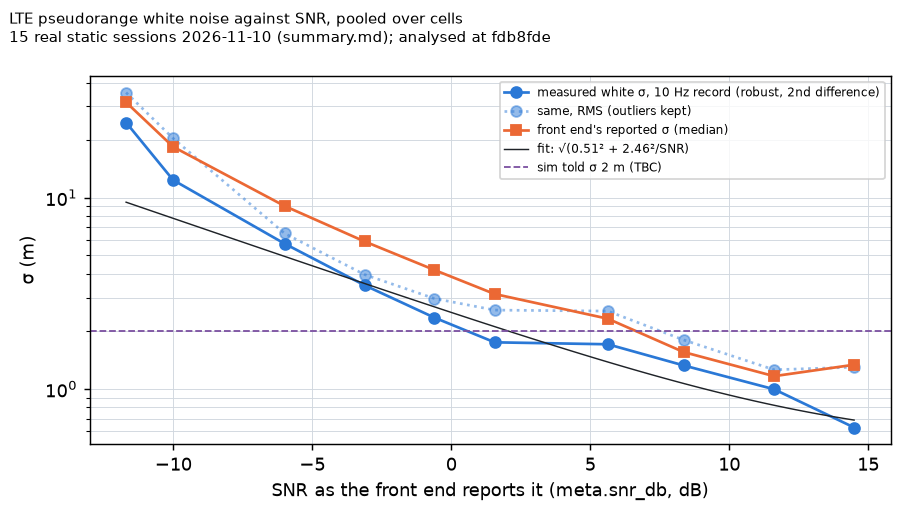
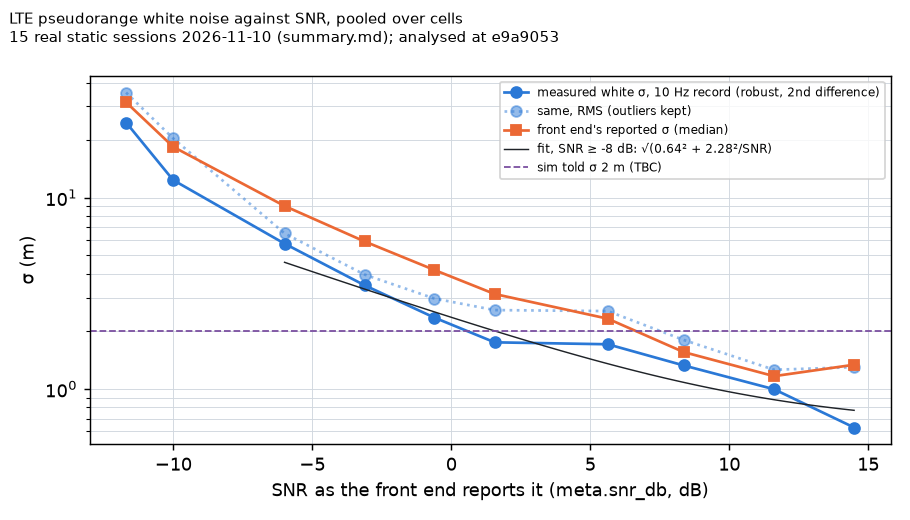
docs(analysis): regenerate LTE measured noise on all 15 sessions
Front end and analysis/lte_measured_noise.py at e9a9053 (main) on all
15 sessions of 2026-11-10, now on the laptop. The recording commit is
cited as its twin on main, ee20817 (analysis/recite.py's mapping).

summary.md, summary.json and the five figures now carry the fit over
SNR >= -8 dB only, and cite commits on main:

- fit: 0.51^2 + 2.46^2/SNR_lin -> 0.64^2 + 2.28^2/SNR_lin (m, 10 Hz)
- analysis 2408c19 -> e9a9053; front end 3e97678/060445f -> e9a9053

Every SNR bin, cell, pair, track-break and Allan value is unchanged
except three in the fourth significant figure (in NOTES.md). NOTES.md
says the results are regenerated and gives the commands as run.

diff --git a/analysis/results/lte-measured-noise/summary.md b/analysis/results/lte-measured-noise/summary.md
@@ -1,24 +1,24 @@
 # LTE pseudorange error measured on real static captures (#173)
 
-`analysis/lte_measured_noise.py` at `2408c19`. Evidence: **real sessions**, static, one RTL-SDR, no GPS fix (no position truth; NTP, not PPS, time). Precision only.
+`analysis/lte_measured_noise.py` at `e9a9053`. Evidence: **real sessions**, static, one RTL-SDR, no GPS fix (no position truth; NTP, not PPS, time). Precision only.
 
 | Session | Recorded at | Front end at | IQ length (s) | LTE record span (s) | Cells |
 |---|---|---|---|---|---|
-| 20261110-1305-lte-outside-lte | `ee20817` | `3e97678` | 59.53 | 49.4 | 1 |
-| 20261110-1610-static-site1-e2460-lte | `ee20817` | `3e97678` | 59.53 | 59.4 | 3 |
-| 20261110-1610-static-site1-e5060-lte | `ee20817` | `3e97678` | 59.53 | 59.4 | 4 |
-| 20261110-1610-static-site1-e5145-lte | `ee20817` | `3e97678` | 59.53 | 59.4 | 2 |
-| 20261110-1610-static-site1-e5205-lte | `ee20817` | `3e97678` | 59.12 | 59.0 | 3 |
-| 20261110-1610-static-site1-e5255-lte | `ee20817` | `3e97678` | 59.53 | 49.3 | 2 |
-| 20261110-1623-static-out-e2460-lte | `ee20817` | `3e97678` | 59.53 | 52.3 | 2 |
-| 20261110-1623-static-out-e2560-lte | `ee20817` | `3e97678` | 59.46 | 59.3 | 2 |
-| 20261110-1623-static-out-e5060-lte | `ee20817` | `3e97678` | 59.53 | 59.4 | 3 |
-| 20261110-1623-static-out-e5145-lte | `ee20817` | `3e97678` | 59.53 | 59.3 | 4 |
-| 20261110-1623-static-out-e5205-lte | `ee20817` | `3e97678` | 59.53 | 59.4 | 3 |
-| 20261110-1623-static-out-e5255-lte | `ee20817` | `3e97678` | 59.53 | 59.4 | 2 |
-| 20261110-1759-static-out-long-e5060-lte | `ee20817` | `060445f` | 1799.65 | 1799.5 | 3 |
-| 20261110-lte-outside-5145-lte | `ee20817` | `3e97678` | 29.49 | 29.4 | 3 |
-| 20261110-lte-outside-5255-lte | `ee20817` | `3e97678` | 29.49 | 29.3 | 2 |
+| 20261110-1305-lte-outside-lte | `ee20817` | `e9a9053` | 59.53 | 49.4 | 1 |
+| 20261110-1610-static-site1-e2460-lte | `ee20817` | `e9a9053` | 59.53 | 59.4 | 3 |
+| 20261110-1610-static-site1-e5060-lte | `ee20817` | `e9a9053` | 59.53 | 59.4 | 4 |
+| 20261110-1610-static-site1-e5145-lte | `ee20817` | `e9a9053` | 59.53 | 59.4 | 2 |
+| 20261110-1610-static-site1-e5205-lte | `ee20817` | `e9a9053` | 59.12 | 59.0 | 3 |
+| 20261110-1610-static-site1-e5255-lte | `ee20817` | `e9a9053` | 59.53 | 49.3 | 2 |
+| 20261110-1623-static-out-e2460-lte | `ee20817` | `e9a9053` | 59.53 | 52.3 | 2 |
+| 20261110-1623-static-out-e2560-lte | `ee20817` | `e9a9053` | 59.46 | 59.3 | 2 |
+| 20261110-1623-static-out-e5060-lte | `ee20817` | `e9a9053` | 59.53 | 59.4 | 3 |
+| 20261110-1623-static-out-e5145-lte | `ee20817` | `e9a9053` | 59.53 | 59.3 | 4 |
+| 20261110-1623-static-out-e5205-lte | `ee20817` | `e9a9053` | 59.53 | 59.4 | 3 |
+| 20261110-1623-static-out-e5255-lte | `ee20817` | `e9a9053` | 59.53 | 59.4 | 2 |
+| 20261110-1759-static-out-long-e5060-lte | `ee20817` | `e9a9053` | 1799.65 | 1799.5 | 3 |
+| 20261110-lte-outside-5145-lte | `ee20817` | `e9a9053` | 29.49 | 29.4 | 3 |
+| 20261110-lte-outside-5255-lte | `ee20817` | `e9a9053` | 29.49 | 29.3 | 2 |
 
 Sim placeholders from `src/pnt/sim/scenarios/sets/challenge-drone.yaml` and `sim/lte_front_end.py` `Dongle`.
 
@@ -37,7 +37,9 @@ Sim placeholders from `src/pnt/sim/scenarios/sets/challenge-drone.yaml` and `sim
 | 10 to 13 | 760 | 1.00 | 1.26 | 1.17 | 0.85 |
 | 13 to 16 | 1002 | 0.63 | 1.30 | 1.34 | 0.47 |
 
-Fit: σ² = 0.51² + 2.46² / SNR_lin (m, 10 Hz).
+Fit on the bins at SNR ≥ -8 dB only (`TBC`): σ² = 0.64² + 2.28² / SNR_lin (m, 10 Hz).
+
+Below it the fit is not used; each bin's measured robust σ stands: -14 to -11 dB: 24.74 m; -11 to -8 dB: 12.38 m.
 
 ## Per cell
 
@@ -57,7 +59,7 @@ Fit: σ² = 0.51² + 2.46² / SNR_lin (m, 10 Hz).
 | 20261110-1610-static-site1-e5205-lte | lte:5205:309 | 202790 | 97% | 8 | 8 | 8.8 | 1.45 | 1.31 | 5.05 | — | — | 145.97 | 119.6 | — | — | 7.1 | 1.1 |
 | 20261110-1610-static-site1-e5205-lte | lte:5205:325 | 202790 | 80% | 38 | 47 | 4.9 | 2.99 | 2.83 | 10.64 | — | — | 146.57 | -137.8 | -195 | -0.98 | 46.7 | 0.2 |
 | 20261110-1610-static-site1-e5255-lte | lte:5255:85 | 219129 | 52% | 14 | 15 | 12.0 | 1.03 | 0.70 | 3.32 | — | — | 143.41 | -2.7 | — | — | 14.1 | 1.4 |
-| 20261110-1610-static-site1-e5255-lte | lte:5255:175 | 219076 | 12% | 13 | 20 | -11.1 | 24.45 | 10.08 | — | — | — | — | — | 52 | 0.26 | 19.1 | 0.1 |
+| 20261110-1610-static-site1-e5255-lte | lte:5255:175 | 219076 | 12% | 13 | 20 | -11.1 | 24.45 | 10.09 | — | — | — | — | — | 52 | 0.26 | 19.1 | 0.1 |
 | 20261110-1623-static-out-e2460-lte | lte:2460:220 | 36122 | 63% | 19 | 36 | 5.5 | 10.21 | 1.95 | 6.06 | — | — | 85.70 | 52.0 | — | — | 35.3 | 0.2 |
 | 20261110-1623-static-out-e2460-lte | lte:2460:244 | 30066 | 19% | 9 | 24 | -11.9 | 30.55 | 11.35 | — | — | — | — | — | -416 | -2.08 | 23.2 | 0.1 |
 | 20261110-1623-static-out-e2560-lte | lte:2560:175 | TBD | 79% | 20 | 42 | -11.0 | 20.84 | 12.40 | 22.77 | — | — | 109.14 | -19.5 | 1 | 0.00 | 41.4 | 0.2 |

diff --git a/analysis/results/lte-measured-noise/NOTES.md b/analysis/results/lte-measured-noise/NOTES.md
@@ -4,7 +4,7 @@ Evidence: **real sessions**, static, payload Pi, one NESDR SMArt v5, recorded on
 
 ## Commands
 
-Analysis at `2408c19`. Front end at `3e97678` for the 60 s and 30 s sessions and at `060445f` for the 1,800 s one; no file under `src/` differs between the three. These are the commits on `main`. The runs were made on the branch before it was rebased twice and rebase-merged; each commit named here has the same change as the branch commit it ran at (`git patch-id`, `just recite`). The second rebase brought in #171's coherent LTE integration. #171 changed `src/pnt/frontends/lte/tracker.py` and `frontend.py`; its default output was checked identical on 10 real captures in #171. Re-run at the twice-rebased branch head, whose `src/` and `analysis/lte_measured_noise.py` are those of `9b129aa`, on the three sessions on the laptop (`20261110-1305-lte-outside`, `20261110-lte-outside-5145`, `-5255`): their 13 rows in `summary.md` (3 session, 6 cell, 4 pair) came out identical but for the commit columns, as they did after the first rebase. The other 12 sessions are on the Pi only: **regenerate everything at the merged commit** with the commands below, so that `summary.md` names a commit on `main`.
+Front end and analysis at `e9a9053` on `main`, on all 15 sessions (run on the laptop, 2026-11-11). Each session's `meta.yaml` names the payload Pi's local commit, which is not on `main`; `summary.md` and `summary.json` cite its twin on `main`, `ee20817` (same patch by `git patch-id`), as `python analysis/recite.py --write` rewrites it (last line below; it re-cites every other result that needs it too).
 
 ```bash
 export OMP_NUM_THREADS=1 OPENBLAS_NUM_THREADS=1 VECLIB_MAXIMUM_THREADS=1
@@ -15,13 +15,16 @@ for s in 20261110-1305-lte-outside 20261110-lte-outside-{5145,5255} \
   pnt frontend lte data/sessions/$s/sdr_a.cu8 --out <out>/$s-lte
 done
 python analysis/lte_measured_noise.py <out>/*-lte --raw-root data/sessions
+python analysis/recite.py --write
 ```
 
 Every session uses the recorder's own `sdr_a.json`. Carriers with no cell found (nothing written): 2535 (both spots and the first spot), 5035, 5085, 68611.
 
+Against the first results (analysis at `2408c19`, front end at `3e97678` and `060445f`, run on the branch before its rebase-merge; under `src/` only the dashboard, `payload/gpsd.py` and `_attacks.yaml` differ from `e9a9053`): every SNR bin, cell, pair, track-break and Allan value is the same except the fit (below) and three values in the fourth significant figure: `20261110-1610-static-site1-e5255` PCI 175 white σ robust 10.08 → 10.09 m, `20261110-1759-static-out-long-e5060` PCI 4 white σ RMS 3.194 → 3.195 m (`summary.json`), and its 492 − 4 drift −0.1751 → −0.175 m/s (`summary.json`).
+
 ## The white-σ fit: SNR ≥ −8 dB only
 
-`summary.md`, `summary.json` and `white_vs_snr.png` still show the first fit, over every SNR bin: σ² = 0.51² + 2.46² / SNR_lin. Below −8 dB it read 7.8 m against the measured 12.4 m (−11 to −8 dB) and 9.5 m against 24.7 m (−14 to −11 dB), so the script now fits only the bins at or above `FIT_MIN_SNR_DB` (−8 dB, `TBC`; from `ff51d65`) and keeps each weaker bin's measured σ. The per-bin values the fit uses (`snr_median_db`, `white_robust_m`, `n`) are in `summary.json`, so the same `fit_white` gives the new fit without the sessions: σ² = 0.64² + 2.28² / SNR_lin (m, 10 Hz), within 0.79 to 1.23 of each fitted bin. The same call on every bin returns 0.507 and 2.460, the committed fit, so the rounded JSON values do not move it at this precision.
+The script fits only the bins at or above `FIT_MIN_SNR_DB` (−8 dB, `TBC`; from `ff51d65`) and keeps each weaker bin's measured σ: σ² = 0.64² + 2.28² / SNR_lin (m, 10 Hz), within 0.79 to 1.23 of each fitted bin. The first fit, over every bin, was σ² = 0.51² + 2.46² / SNR_lin; below −8 dB it read 7.8 m against the measured 12.4 m (−11 to −8 dB) and 9.5 m against 24.7 m (−14 to −11 dB). Both come back from the per-bin values in `summary.json` (`snr_median_db`, `white_robust_m`, `n`) without the sessions:
 
 ```bash
 PYTHONPATH=src python -c "
@@ -32,7 +35,7 @@ b = json.load(open('analysis/results/lte-measured-noise/summary.json'))['snr_bin
 print(m.fit_white(b), m.fit_white(b, snr_min_db=-1e9))"
 ```
 
-A regeneration (above) replaces the three files with the −8 dB fit.
+It prints 0.642 and 2.280, then 0.507 and 2.460.
 
 ## Buffer stamps and the 1,800 s capture
 
